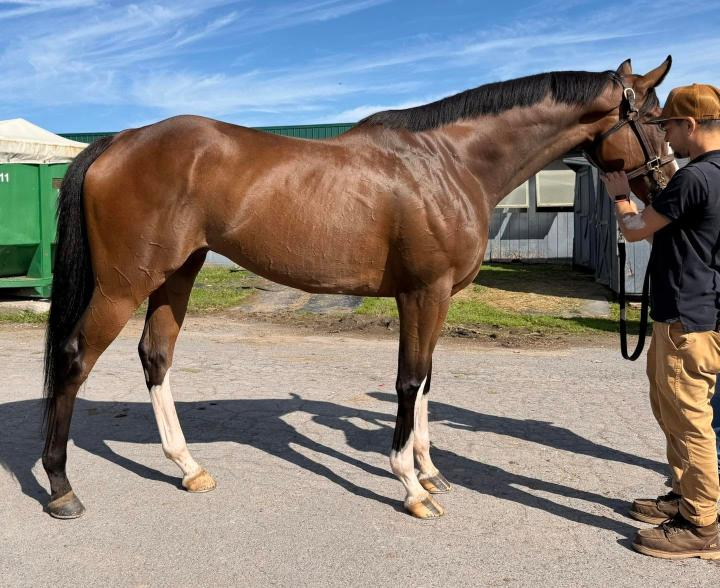
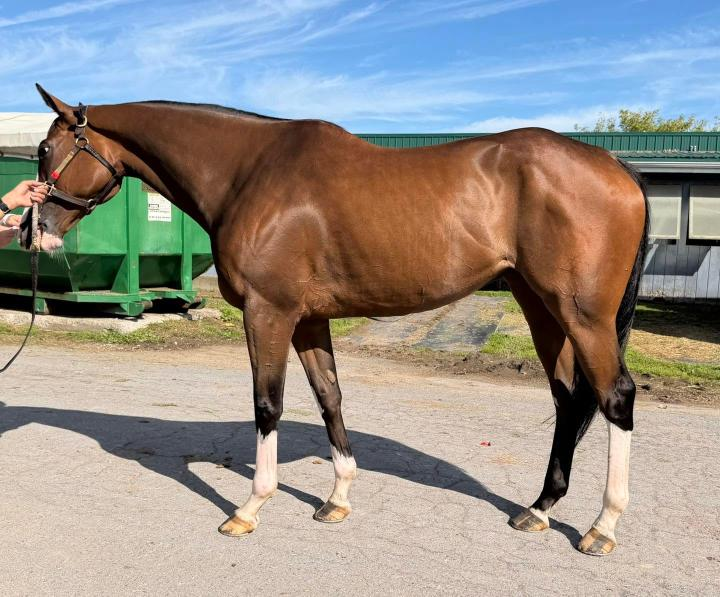
Site content

diff --git a/horsePages/captainofmyheart.html b/horsePages/captainofmyheart.html
@@ -1,0 +1,107 @@
+<!DOCTYPE html>
+<html lang="en">
+    <head>
+        <meta charset="UTF-8">
+        <meta http-equiv="X-UA-Compatible" content="IE=edge">
+        <meta name="viewport" content="width=device-width, initial-scale=1.0">
+        <link rel="stylesheet" href="../style.css">
+        <title>Captainofmyheart | Finger Lakes Finest Thoroughbreds, Inc</title>
+    </head>
+    <body onresize="resizeImage()" onload="drawGallery()">
+        <header>
+            <div class="logo_box">
+                <img src="../images/logo.jpg" alt="Finger Lakes Finest Thoroughbreds Inc" class="logo">
+            </div>
+            <div class="nav_box">
+                <nav class="nav_normal">
+                    <a href="../index.html">Home</a>
+                    <a href="../howtobuy.html">How to Buy</a>
+                    <a href="../available.html">Available Horses</a>
+                    <a href="../placed.html">Placed Horses</a>
+                    <a href="../resources.html">Resources</a>
+                    <a href="../donate.html">Donate</a>
+                    <a href="../contact.html">Contact Us</a>
+                </nav>
+            </div>
+            <div class="nav_box_mobile">
+                <input id="toggle" type="checkbox">
+                <label for="toggle" class="hamburger">
+                    <div class="htop"></div>
+                    <div class="hmid"></div>
+                    <div class="hbottom"></div>
+                </label>
+                <div class="ham_nav">
+                    <nav class="nav_mobile">
+                        <div class="nav_mobile_inner">
+                            <a href="../index.html">Home</a>
+                            <a href="../howtobuy.html">How to Buy</a>
+                            <a href="../available.html">Available Horses</a>
+                            <a href="../placed.html">Placed Horses</a>
+                            <a href="../resources.html">Resources</a>
+                            <a href="../donate.html">Donate</a>
+                            <a href="../contact.html">Contact Us</a>
+                        </div>
+                    </nav>
+                </div>
+            </div>
+            <hr>
+        </header>
+        <main>
+            <img class="listing_thumb" src="captainofmyheart_files/profile.jpg">
+            <h1>CAPTAINOFMYHEART,  2020, 16.1+ bay gelding</h1>
+            <p>Located at Finger Lakes Racetrack, Farmington, NY (near Rochester)</p>
+            <p>Do you want to get noticed in the hunter ring? Well, here you go! This sweet six-year-old gelding is about as classy as they come with his light bay coat, three white socks and a huge blaze across his face. His trainer describes him as a “real lover boy” who is good in his stall and in turnout with other horses and is said to “ to never have had an issue” of any sort. He is also said to be “clean as a whistle” and “never has he taken a bad step.” She went so far as to claim “this horse has never even had a dose of bute” in the time she has had him.</p>
+            <p>He came out quietly and stood to be admired and photographed and then jogged easily on a loose lead. He is nicely balanced with a good shoulder and a perfect height. He enjoyed being admired by our volunteers and was very interested in the mints used to help him pose. His jog was flat-kneed and toe-pointing. His floppy ears stayed forward and his tail wagged, showing what a happy, easy-going guy he is. He has been well-loves and it certainly shows!</p>
+            <p>Captainofmyheart is by Honorable Dillon, who is by Tapit, known for having offspring with loads of personality. He is out of a Freud mare who is known for ammy friendly kiddos with loads of talent in jumping. This loveable sweet guy is sure to excel in just about any discipline and is sure to get you noticed!</p>
+            <p>Please be prepared with references as they will be checked!</p>
+            <p>Preference will be given to those local to New York State and that plan to keep for at least a year.</p>
+            <p>Elizabeth Hendy 585-472-9538 TEXT ONLY</p>
+            <p>$3500 negotiable to the best of homes</p>
+            <p>A PPE is always recommended. For information about vet practices available to do PPEs, and other important information about the buying process, please see the page.
+                <a href="../howtobuy.html">How to Buy</a>
+            </p>
+            <p>
+                <a href="https://www.equibase.com/profiles/Results.cfm?type=Horse&amp;refno=10787603&amp;registry=T" target="_blank" rel="noreferrer noopener">Race Record</a>
+            </p>
+            <p>
+                <a rel="noreferrer noopener" href="https://www.equineline.com/Free-5X-Pedigree.cfm?page_state=ORDER_AND_CONFIRM&amp;include_sire_line=N&amp;include_truenick=N&amp;reference_number=10787603" target="_blank">Pedigree</a>
+            </p>
+            <div id="image_gallery_full">
+                <img src="../horsePages/captainofmyheart_files/h6.jpg" full_size="../horsePages/captainofmyheart_files/h6.jpg">
+                <img src="../horsePages/captainofmyheart_files/h7.jpg" full_size="../horsePages/captainofmyheart_files/h7.jpg">
+                <img src="../horsePages/captainofmyheart_files/n5.jpg" full_size="../horsePages/captainofmyheart_files/n5.jpg">
+                <img src="../horsePages/captainofmyheart_files/h4.jpg" full_size="../horsePages/captainofmyheart_files/h4.jpg">
+                <img src="../horsePages/captainofmyheart_files/h3.jpg" full_size="../horsePages/captainofmyheart_files/h3.jpg">
+                <img src="../horsePages/captainofmyheart_files/h2.jpg" full_size="../horsePages/captainofmyheart_files/h2.jpg">
+                <img src="../horsePages/captainofmyheart_files/h1.jpg" full_size="../horsePages/captainofmyheart_files/h1.jpg">
+            </div>
+            <div class="large_image_wrapper">
+                <span class="prev_image" onclick="prevImage()">
+                &lt;
+            </span>
+                <img id="full_size_image" src="" onload="resizeImage()">
+                <span class="next_image" onclick="nextImage()">
+                &gt;
+            </span>
+            </div>
+            <div id="gallery_dot_progress">
+        </div>
+            <div class="jog_video">
+                <iframe width="560" height="315" src="https://www.youtube.com/embed/WBIFHGGzB0M" title="YouTube video player" frameborder="0" allow="accelerometer; autoplay; clipboard-write; encrypted-media; gyroscope; picture-in-picture; web-share" referrerpolicy="strict-origin-when-cross-origin" allowfullscreen></iframe>
+            </div>
+        </main>
+        <footer>
+            <hr>
+            <div class="footer_logo">
+                <img src="../images/fb_logo.jpg" alt="Finger Lakes Finest Logo" class="footer_logo">
+            </div>
+            <p class="footer_text">
+                <a href="mailto:fingerlakesfinest@gmail.com">fingerlakesfinest@gmail.com</a>
+            </p>
+            <a href="https://www.facebook.com/fingerlakesfinesttbs">
+                <img src="../images/facebook.gif">
+            </a>
+        </footer>
+        <script src="../gallery.js"></script>
+    </body>
+</html>

diff --git a/index.html b/index.html
@@ -71,6 +71,7 @@
                         <a class="mobile_home_gallery_title" href="available.html">Available Horses</a>
                     </h3>
                     <div id="full_available_list">
+                        <img src="horsePages/captainofmyheart_files/profile.jpg" href="horsePages/captainofmyheart.html" horse_title="CAPTAINOFMYHEART,  2020, 16.1+ bay gelding">
                         <img src="horsePages/ringgood_files/profile.jpg" href="horsePages/ringgood.html" horse_title="RINGGOOD,  2017, 16.2h bay gelding">
                         <img src="horsePages/ringoftherise_files/profile.jpg" href="horsePages/ringoftherise.html" horse_title="RING OF THE RISE, 2022, 15.3+ h., dark bay filly">
                         <img src="horsePages/courageoousohla_files/profile.jpg" href="horsePages/courageoousohla.html" horse_title="COURAGEOOUS OHLA, 2019, 16.0 h, bay gelding">
@@ -159,6 +160,9 @@
             <div class="recent_adds">
                 <h3>Recent Additions</h3>
                 <ul>
+                    <li>
+                        <a class="available_title" href="horsePages/captainofmyheart.html">CAPTAINOFMYHEART,  2020, 16.1+ bay gelding</a>
+                    </li>
                     <li>
                         <a class="available_title" href="horsePages/ringgood.html">RINGGOOD,  2017, 16.2h bay gelding</a>
                     </li>

diff --git a/available.html b/available.html
@@ -49,6 +49,15 @@
         <main>
             <h1>Available Horses</h1>
             <div class="available_snippet_div">
+                <a class="available_title" href="horsePages/captainofmyheart.html">CAPTAINOFMYHEART, 2020, 16.1+ bay gelding</a>
+                <div class="available_snippet_inner_div">
+                    <img class="snippet_thumb" src="horsePages/captainofmyheart_files/profile.jpg">
+                    <p>Located at Finger Lakes Racetrack, Farmington, NY (near Rochester) Do you want to get noticed in the hunter ring? Well, here you go! This sweet six-year-old gelding is about as classy as they come with his light bay coat, three white socks and a huge blaze across his face.
+                        <a href="horsePages/captainofmyheart.html">Continue Reading...</a>
+                    </p>
+                </div>
+            </div>
+            <div class="available_snippet_div">
                 <a class="available_title" href="horsePages/ringgood.html">RINGGOOD,  2017, 16.2h bay gelding</a>
                 <div class="available_snippet_inner_div">
                     <img class="snippet_thumb" src="horsePages/ringgood_files/profile.jpg">
